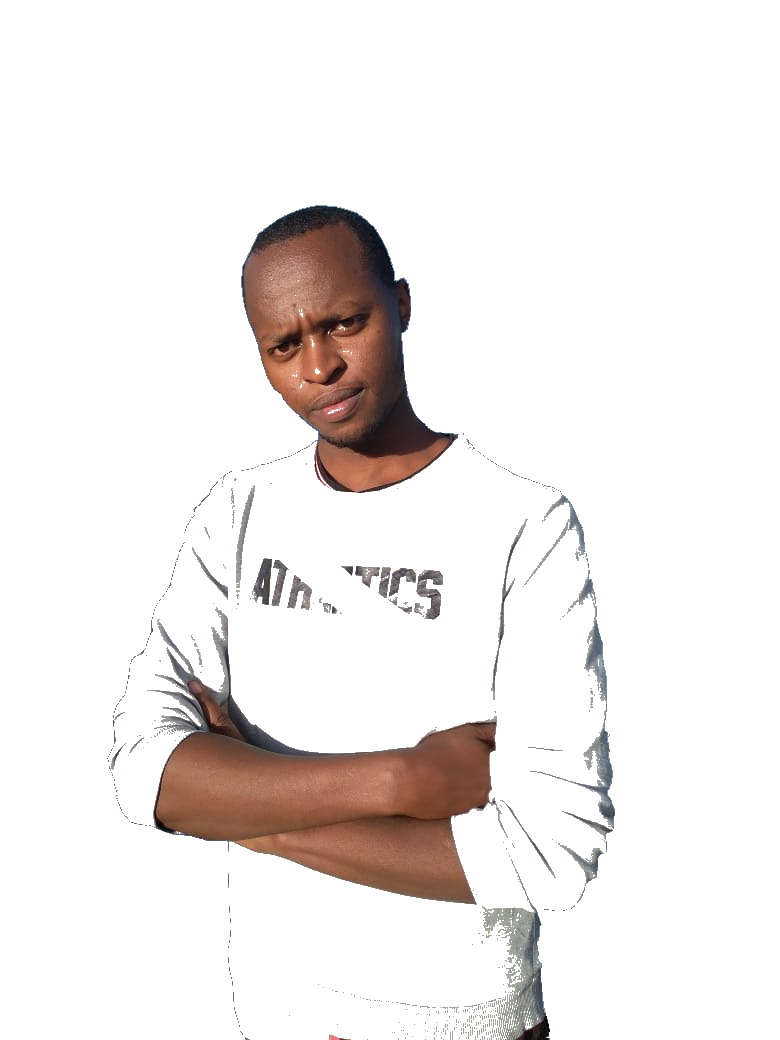
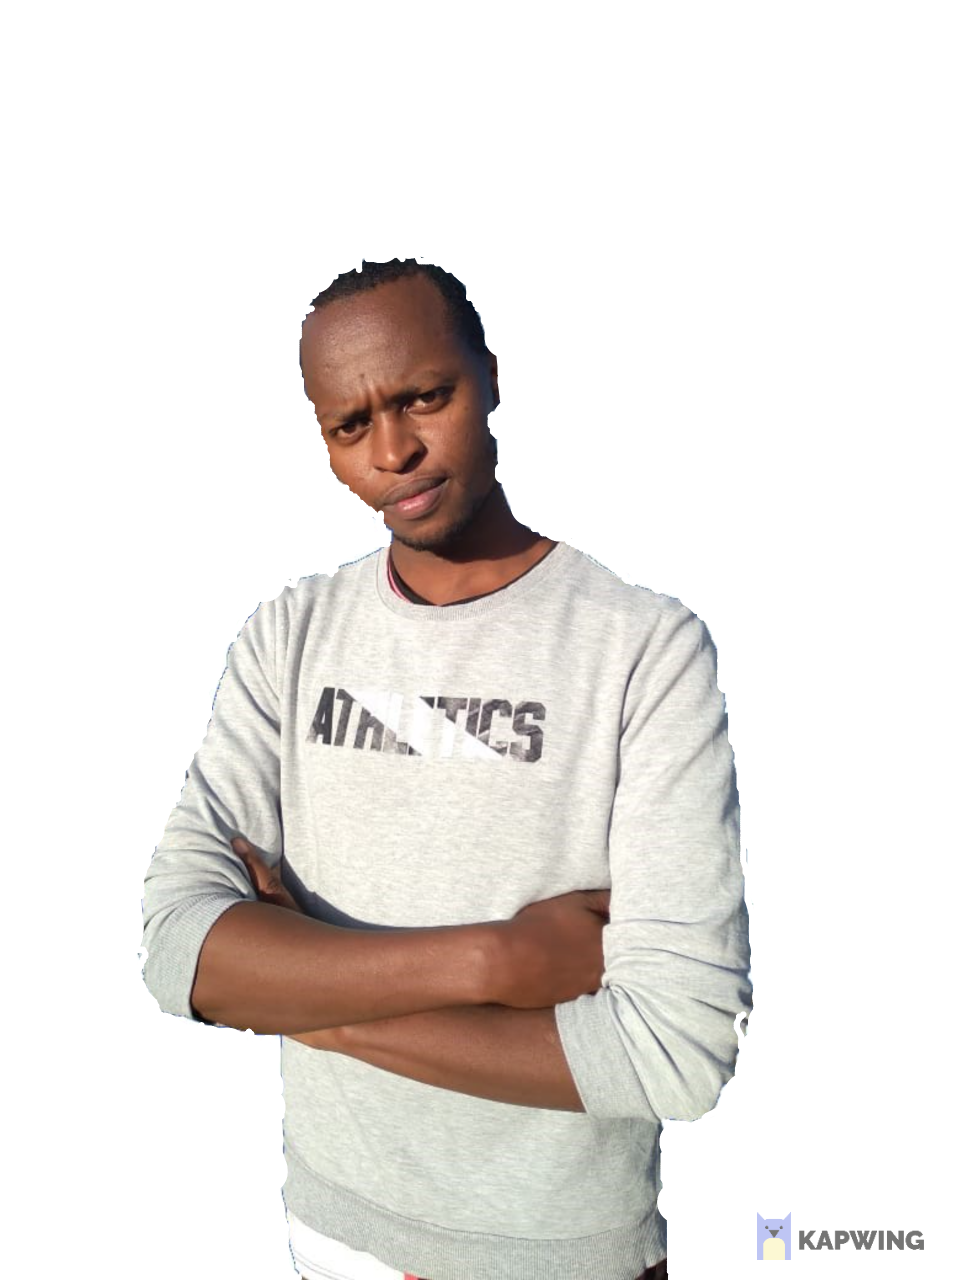
about page initial completion

diff --git a/index.html b/index.html
@@ -111,10 +111,10 @@
 
           <!--services-->
           <div id="services" class="row mt-5">
-            <div class="col col-12   services-head mt-5">
-              <h6 class="col   services-sec">SERVICES</h6>
-              <h1 class="col   services-h1">My Services</h1>
-              <p class="col col-12 col-md-6 mx-auto services-p">Dedicated Mechanical Engineer with the experience and technical expertise to provide the highest quality mechanical component and system support.</p>
+            <div class="col col-12   section-head mt-5">
+              <h6 class="col   section-sec">SERVICES</h6>
+              <h1 class="col   section-h1">My Services</h1>
+              <p class="col col-12 col-md-6 mx-auto section-p">Dedicated Mechanical Engineer with the experience and technical expertise to provide the highest quality mechanical component and system support.</p>
 
             </div>
             <div class="col mt-3 col-12 line"><p></p></div>
@@ -128,6 +128,38 @@
           </div>
                     <!--services-->
                     <div id="about">
+                      <div class="col col-12   section-head mt-5">
+                        <h6 class="col   section-sec"></h6>
+                        <h1 class="col   section-h1">About ME</h1>
+                        <p class="col col-12 col-md-6 mx-auto section-p">Dedicated Mechanical Engineer with the experience and technical expertise to provide the highest quality mechanical component and system support.</p>
+          
+                      </div>
+                      <div class="col-12 about-sect">
+                        <div class="col about-image col-sm-12">
+                          <img src="sos2.png" class="image-fluid sos2" alt="Sospeter Gitonga"/>
+                        </div>
+                
+                        <div class="col about-text col-sm-12">
+                          <div class="about-text">
+                            <h3>Hi There,</h3>
+                            <p>In id nulla magna. Nullam posuere fermentum mattis. Nunc id dui at sapien faucibus fermentum ut vel diam. Nullam tempus, nunc id efficitur sagittis, urna est ultricies eros, ac porta sem turpis
+
+                              nunc id efficitur sagittis, urna est ultricies eros, ac porta sem turpis porta sem turpis quis leo. Nulla in feugiat elit</p>
+                          </div>
+                          <div class="about-extra">
+                            <div class="name"><h6>Name :</h6><p>Sospeter Gitonga</p></div>
+                            <div class="email"><h6>Email</h6><p>johnndigirigi01@gmail.com</p></div>
+                            <div class="phone"><h6>Phone</h6><p>+254742734120</p></div>
+                            <div class="linkedin"><h6>linkedlin</h6><p>John_1234</p></div>
+
+                          </div>
+
+
+
+                        </div>
+
+                      </div>
+          
             
                     </div>
                                         <!--services-->

diff --git a/sass/about.css b/sass/about.css
@@ -1,4 +1,53 @@
 #about {
-  background-color: transparent;
+  background-color: #23263a;
+}
+
+.about-extra div h6 {
+  color: #ff4a57;
+}
+
+@media only screen and (min-width: 768px) {
+  .about-sect {
+    display: -ms-grid;
+    display: grid;
+    -ms-grid-columns: 1fr 1fr;
+        grid-template-columns: 1fr 1fr;
+    grid-gap: 30px;
+    background-color: #23263a;
+    padding: 100px;
+    padding-top: 30px;
+  }
+  .sos2 {
+    -ms-flex-item-align: center;
+        -ms-grid-row-align: center;
+        align-self: center;
+    height: 90vh;
+  }
+  .about-extra {
+    display: -ms-grid;
+    display: grid;
+    -ms-grid-columns: 1fr 1fr;
+        grid-template-columns: 1fr 1fr;
+    grid-gap: 30px;
+    background-color: #23263a;
+  }
+}
+
+.about-image {
+  text-align: center;
+  -webkit-box-pack: center;
+      -ms-flex-pack: center;
+          justify-content: center;
+}
+
+.sos2 {
+  -ms-flex-item-align: center;
+      -ms-grid-row-align: center;
+      align-self: center;
+  height: 50vh;
+  -webkit-mask-image: -webkit-gradient(linear, left top, left bottom, from(black), to(rgba(0, 0, 0, 0)));
+  -webkit-mask-image: linear-gradient(to bottom, black, rgba(0, 0, 0, 0));
+          mask-image: -webkit-gradient(linear, left top, left bottom, from(black), to(rgba(0, 0, 0, 0)));
+          mask-image: linear-gradient(to bottom, black, rgba(0, 0, 0, 0));
 }
 /*# sourceMappingURL=about.css.map */

diff --git a/sass/about.scss b/sass/about.scss
@@ -1,3 +1,61 @@
+//variables
+$dark:#1f2235;
+$light:#dfdfdf;
+$rose:#ff4a57;
+$back:#23263a;
+
+
+
 #about{
-    background-color: transparent;
+    background-color: $back;
+    ;
 }
+
+.about-extra{
+    div{
+        h6{
+            color: $rose;
+
+
+        }
+    }
+}
+@media only screen and (min-width: 768px) {
+    .about-sect{
+        display: grid;
+        grid-template-columns:  1fr 1fr;
+        grid-gap: 30px;
+        background-color: $back;
+        padding: 100px;
+        padding-top: 30px;
+
+
+    }
+
+    .sos2{
+        align-self: center;
+        height:90vh;
+
+    }
+    .about-extra{
+        display: grid;
+        grid-template-columns:  1fr 1fr;
+        grid-gap: 30px;
+        background-color: $back;
+
+        
+    }
+
+
+}
+
+.about-image{
+    text-align: center;
+    justify-content: center;
+}
+    .sos2{
+        align-self: center;
+        height:50vh;
+        -webkit-mask-image:-webkit-gradient(linear, left top, left bottom, from(rgba(0,0,0,1)), to(rgba(0,0,0,0)));
+        mask-image: linear-gradient(to bottom, rgba(0,0,0,1), rgba(0,0,0,0));
+    }

diff --git a/sass/services.scss b/sass/services.scss
@@ -10,15 +10,15 @@ $back:#23263a;
     background-color: transparent;
     text-align: center;
 }
-.services-head{
+.section-head{
     text-align: center;
     align-content: center;
-    .services-sec{
+    .section-sec{
         text-align:center;
         color:$rose;
 
     }
-    .services-h1{
+    .section-h1{
         text-align:center;
         color:$light;
 
@@ -35,7 +35,7 @@ $back:#23263a;
     p{background-color: $rose;
         width: 100px;
         height:4px;
-        left:40%;
+        left:38%;
         position: relative;
 
 

diff --git a/sass/services.css b/sass/services.css
@@ -3,18 +3,18 @@
   text-align: center;
 }
 
-.services-head {
+.section-head {
   text-align: center;
   -ms-flex-line-pack: center;
       align-content: center;
 }
 
-.services-head .services-sec {
+.section-head .section-sec {
   text-align: center;
   color: #ff4a57;
 }
 
-.services-head .services-h1 {
+.section-head .section-h1 {
   text-align: center;
   color: #dfdfdf;
 }
@@ -34,7 +34,7 @@
   background-color: #ff4a57;
   width: 100px;
   height: 4px;
-  left: 40%;
+  left: 38%;
   position: relative;
 }
 

diff --git a/sass/landing.css b/sass/landing.css
@@ -152,5 +152,9 @@
       -ms-grid-row-align: center;
       align-self: center;
   height: 80vh;
+  -webkit-mask-image: -webkit-gradient(linear, left top, left bottom, from(black), to(rgba(0, 0, 0, 0)));
+  -webkit-mask-image: linear-gradient(to bottom, black, rgba(0, 0, 0, 0));
+          mask-image: -webkit-gradient(linear, left top, left bottom, from(black), to(rgba(0, 0, 0, 0)));
+          mask-image: linear-gradient(to bottom, black, rgba(0, 0, 0, 0));
 }
 /*# sourceMappingURL=landing.css.map */

diff --git a/sass/landing.scss b/sass/landing.scss
@@ -172,6 +172,8 @@ h1 {
     .sos1{
         align-self: center;
         height:80vh;
+        -webkit-mask-image:-webkit-gradient(linear, left top, left bottom, from(rgba(0,0,0,1)), to(rgba(0,0,0,0)));
+        mask-image: linear-gradient(to bottom, rgba(0,0,0,1), rgba(0,0,0,0));
     }
 
     

diff --git a/sass/contact.css b/sass/contact.css
@@ -1,4 +1,5 @@
 #contact {
   background-color: transparent;
+  height: 20vh;
 }
 /*# sourceMappingURL=contact.css.map */

diff --git a/sass/contact.scss b/sass/contact.scss
@@ -1,3 +1,4 @@
 #contact{
     background-color: transparent;
+    height: 20vh;
 }
